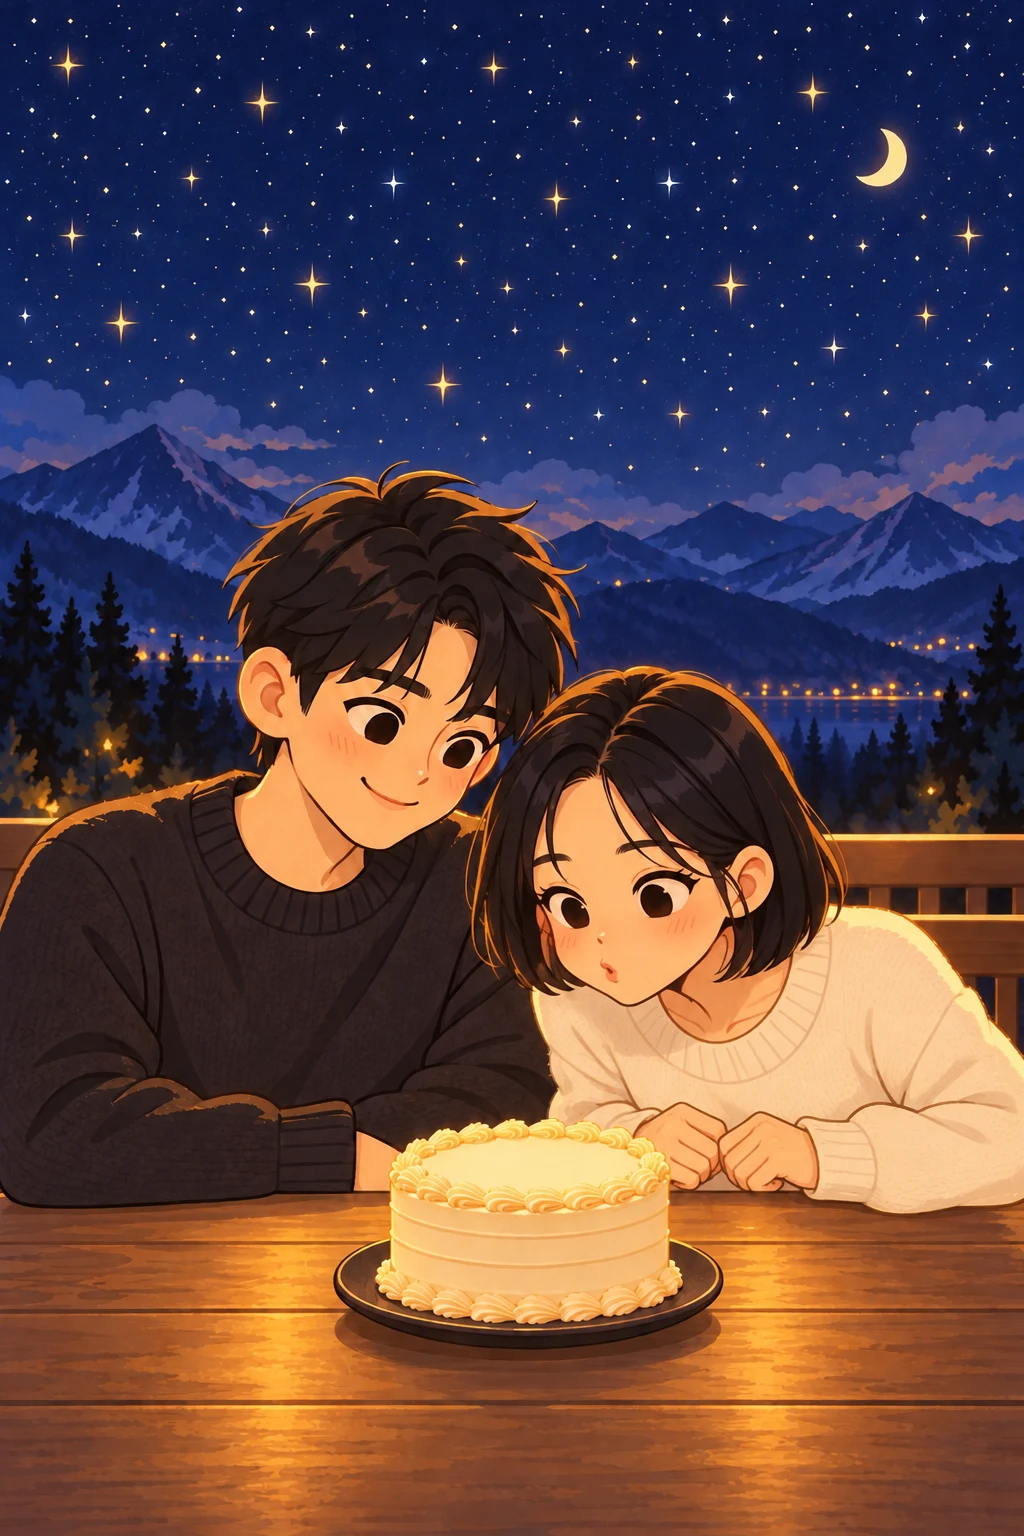
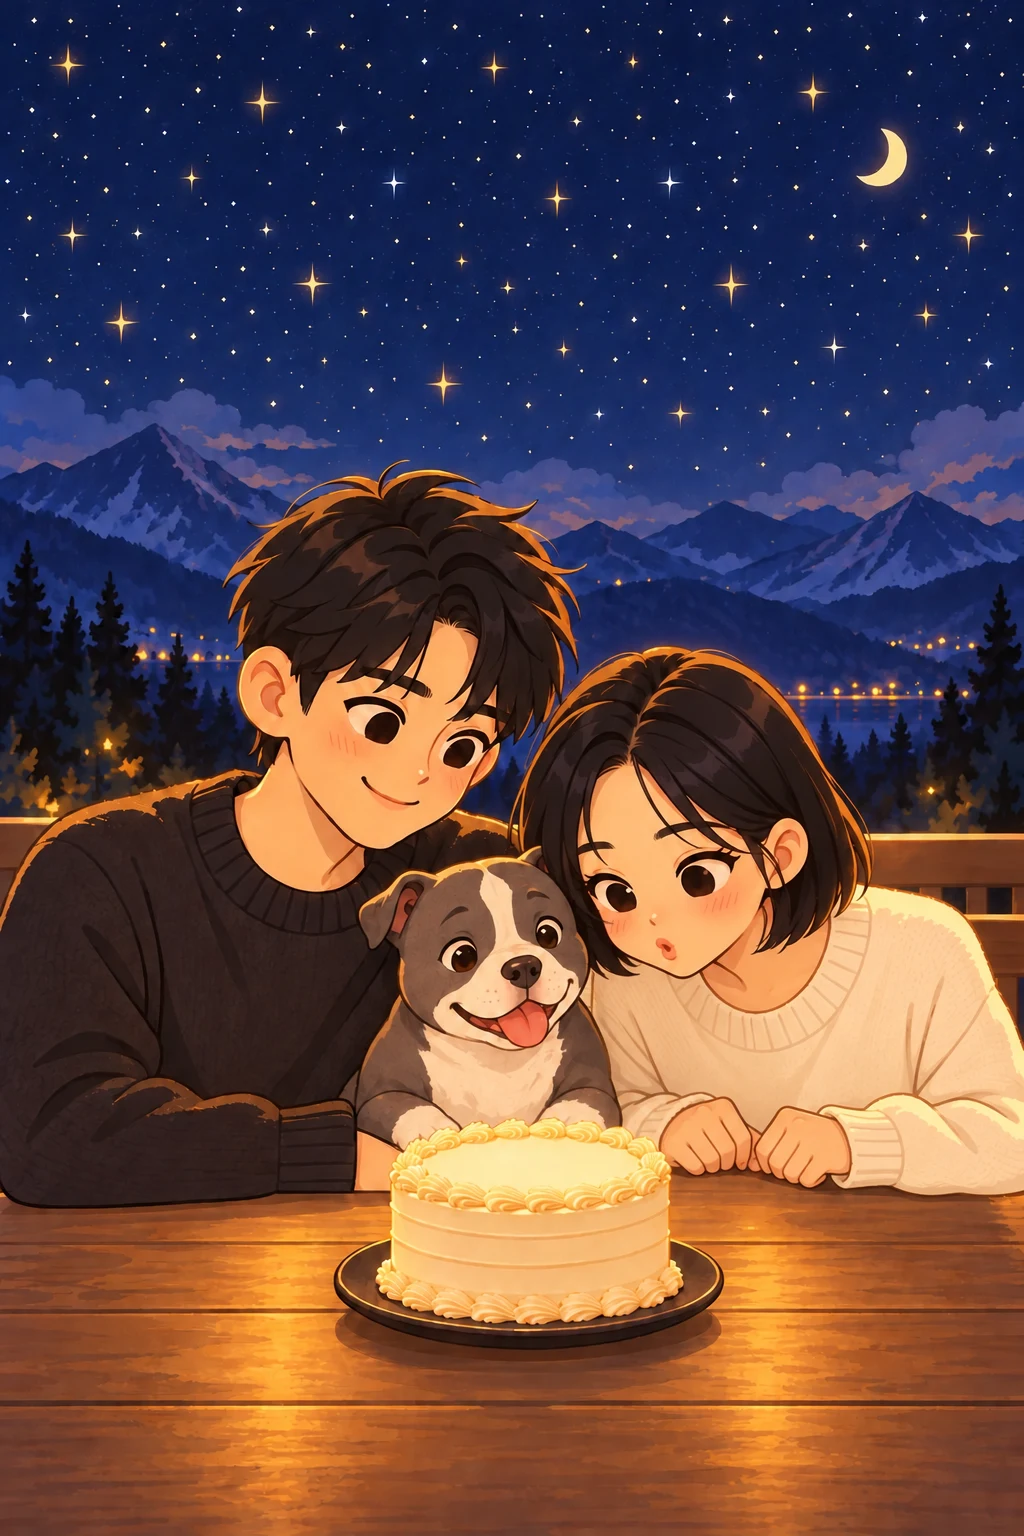
Form birthday greeting with fireworks and add pit bull companion

diff --git a/src/birthday.js b/src/birthday.js
@@ -48,6 +48,27 @@
       light.addColorStop(0,'#fffbe9');light.addColorStop(.14,color);light.addColorStop(1,color+'00');
       g.fillStyle=light;g.fillRect(0,0,32,32);return sprite;
     });
+    // Rasterize three Korean lines once, then let the second volley form their glyphs.
+    const lettering = document.createElement('canvas');
+    lettering.width = Math.ceil(w); lettering.height = Math.ceil(h);
+    const ink = lettering.getContext('2d', {willReadFrequently:true});
+    const fontSize = Math.min(w*.155, h*.09, 72), lineGap = fontSize*1.6;
+    ink.font = `700 ${fontSize}px "Apple SD Gothic Neo", "Noto Sans CJK KR", sans-serif`;
+    ink.textAlign = 'center'; ink.textBaseline = 'middle'; ink.fillStyle = '#fff';
+    const words = ['22번째', '생일', '축하해'];
+    const letterSparks = [];
+    for (let row=0; row<words.length; row++) {
+      ink.clearRect(0,0,w,h);
+      const cy=h*.46+(row-1)*lineGap;
+      ink.fillText(words[row],w/2,cy);
+      const pixels=ink.getImageData(0,0,lettering.width,lettering.height).data;
+      for(let y=Math.max(0,Math.floor(cy-fontSize));y<Math.min(h,cy+fontSize);y+=3){
+        for(let x=0;x<w;x+=3){
+          if(pixels[(y*lettering.width+x)*4+3]<100)continue;
+          letterSparks.push({x,y,row,cy,delay:Math.random()*.15,phase:Math.random()*6});
+        }
+      }
+    }
     const trail = [], started = performance.now();
     const smooth = x => { x=Math.max(0,Math.min(1,x)); return x*x*(3-2*x); };
     function render(now) {
@@ -56,17 +77,17 @@
       const zoom=1-.15*smooth((t-4.3)/1.1);
       ctx.clearRect(0,0,w,h);
       // Fade the camera shot into the illustrated couple after the firework bloom.
-      ctx.globalAlpha=1-smooth((t-8.6)/1.9);
+      ctx.globalAlpha=1-smooth((t-12.6)/1.9);
       ctx.save();
       const sky=ctx.createLinearGradient(0,0,w,h);
       sky.addColorStop(0,'#090f2e');sky.addColorStop(.55,'#20234b');sky.addColorStop(1,'#584069');
       ctx.fillStyle=sky;ctx.fillRect(0,0,w,h);
       const paintedSky=dialog.querySelector('.birthday-photo');
       if(paintedSky.complete&&paintedSky.naturalWidth){
-        ctx.globalAlpha=(1-smooth((t-8.6)/1.9))*.42;
+        ctx.globalAlpha=(1-smooth((t-12.6)/1.9))*.42;
         const skyHeight=h*1.3, skyWidth=skyHeight*1024/440;
         ctx.drawImage(paintedSky,0,0,1024,440,(w-skyWidth)/2,-h*.22-camera*.08,skyWidth,skyHeight);
-        ctx.globalAlpha=1-smooth((t-8.6)/1.9);
+        ctx.globalAlpha=1-smooth((t-12.6)/1.9);
       }
       ctx.translate(w/2,h*.35);ctx.scale(zoom,zoom);ctx.translate(-w/2,-h*.35);
       for(const star of stars){
@@ -119,7 +140,7 @@
             return {x:shell.x+Math.cos(p.angle)*radius,
               y:shell.y+Math.sin(p.angle)*radius+20*at*at};
           };
-          const head=point(age),alpha=(1-smooth((t-8.6)/1.9))*Math.min(1,age*8)*Math.max(0,1-age/p.life);
+          const head=point(age),alpha=(1-smooth((t-12.6)/1.9))*Math.min(1,age*8)*Math.max(0,1-age/p.life);
           ctx.strokeStyle=shell.color;
           for(let tail=3;tail>0;tail--){
             const from=point(Math.max(0,age-tail*.075)),to=point(Math.max(0,age-(tail-1)*.075));
@@ -130,8 +151,26 @@
           ctx.drawImage(glows[b],head.x-7,head.y-7,14,14);
         }
       }
+      // A staggered second volley bursts into the exact message, then drifts away.
+      for(const p of letterSparks){
+        const age=t-(7.9+p.row*.48+p.delay);
+        if(age<0)continue;
+        const spread=1-(1-Math.min(1,age/1.45))**3;
+        const dissolve=smooth((t-12.6)/1.9);
+        const x=w/2+(p.x-w/2)*spread+Math.sin(p.phase)*dissolve*18;
+        const y=p.cy+(p.y-p.cy)*spread+dissolve*dissolve*75;
+        const prev=Math.max(0,age-.065),before=1-(1-Math.min(1,prev/1.45))**3;
+        const colorIndex=[0,1,2][p.row];
+        ctx.globalAlpha=Math.min(1,age*5)*(1-dissolve)*(.78+.22*Math.sin(t*4+p.phase)**2);
+        if(age<1.5){
+          ctx.strokeStyle=palette[colorIndex];ctx.lineWidth=1;
+          ctx.beginPath();ctx.moveTo(w/2+(p.x-w/2)*before,p.cy+(p.y-p.cy)*before);ctx.lineTo(x,y);ctx.stroke();
+        }
+        ctx.drawImage(glows[colorIndex],x-3.2,y-3.2,6.4,6.4);
+        ctx.fillStyle=palette[colorIndex];ctx.fillRect(x-.65,y-.65,1.3,1.3);
+      }
       ctx.restore();ctx.globalAlpha=1;
-      if(t<10.5&&dialog.open&&!document.hidden)frame=requestAnimationFrame(render);
+      if(t<14.5&&dialog.open&&!document.hidden)frame=requestAnimationFrame(render);
       else stop();
     }
     frame=requestAnimationFrame(render);
@@ -197,14 +236,13 @@
       <div class="birthday-scroll"><section class="birthday-hero">
         <div class="birthday-stage">
           <div class="birthday-scene">
-            <img class="birthday-photo" src="birthday-night.webp?v=20261020-8" width="1024" height="1536" alt="별이 많은 밤하늘 아래 단발 여성과 남성이 작은 케이크를 바라보는 그림" decoding="async">
-            <img class="birthday-pose" src="birthday-blow.webp?v=20261020-8" width="1024" height="1536" alt="" aria-hidden="true" decoding="async">
-            <svg class="birthday-breath" viewBox="0 0 1024 1536" aria-hidden="true"><path d="M610 970 Q570 1020 530 1080"/><path d="M618 978 Q580 1030 538 1090"/><path d="M605 965 Q560 1010 523 1075"/></svg>
+            <img class="birthday-photo" src="birthday-night.webp?v=20261020-9" width="1024" height="1536" alt="별이 많은 밤하늘 아래 단발 여성과 남성이 핏불테리어와 작은 케이크를 바라보는 그림" decoding="async">
+            <img class="birthday-pose" src="birthday-blow.webp?v=20261020-9" width="1024" height="1536" alt="" aria-hidden="true" decoding="async">
+            <svg class="birthday-breath" viewBox="0 0 1024 1536" aria-hidden="true"><path d="M666 950 Q590 1010 530 1080"/><path d="M674 958 Q600 1020 538 1090"/><path d="M660 945 Q580 1000 523 1075"/></svg>
             <div class="birthday-candle-glow" aria-hidden="true"></div>
             <button class="birthday-candle-button" type="button" aria-label="촛불 켜기" aria-pressed="true">
               ${[...'2026'].map(n=>`<span class="birthday-number" aria-hidden="true"><span class="birthday-digit">${n}</span><span class="birthday-wick"></span><span class="birthday-flame"></span><span class="birthday-smoke"></span></span>`).join('')}
             </button>
-            <p class="birthday-caption">22번째 생일 축하해</p>
           </div>
           <button class="birthday-blow" type="button">촛불 켜기</button>
         </div>

diff --git a/src/birthday.css b/src/birthday.css
@@ -14,14 +14,12 @@
 .birthday-photo{display:block;width:100%;height:auto}
 .birthday-scene{container-type:inline-size}
 .birthday-candle-button{position:absolute;left:51.8%;top:76%;transform:translate(-50%,-100%);width:25%;height:10%;min-height:65px;display:flex;align-items:flex-end;justify-content:center;padding:0;border:0;background:transparent;cursor:pointer;z-index:3;-webkit-tap-highlight-color:transparent}
-.birthday-number{position:relative;display:block;width:25%;height:48%;color:#f9c0cc}
-.birthday-number:nth-child(2){color:#b8dbef}.birthday-number:nth-child(3){color:#ffe09c}.birthday-number:nth-child(4){color:#c6b3ed}
-.birthday-digit{display:block;font:bold 32px/1 Georgia,serif;font-size:clamp(24px,6cqi,42px);-webkit-text-stroke:1px #fff6df;text-shadow:1px 2px 0 #a35c6380,0 2px 3px #4f343580}
+.birthday-number{position:relative;display:block;width:25%;height:48%;color:#e83841}
+.birthday-digit{display:block;font:bold 32px/1 Georgia,serif;font-size:clamp(24px,6cqi,42px);-webkit-text-stroke:1px #ffb3a0;text-shadow:1px 2px 0 #a35c6380,0 2px 3px #4f343580}
 .birthday-wick{position:absolute;left:50%;bottom:100%;height:8%;width:1px;background:#44362a}
 .birthday-flame{position:absolute;left:calc(50% - 4px);bottom:106%;width:8px;height:40%;border-radius:60% 40% 45% 45%;background:linear-gradient(#ffa943,#fffbe0 60%,#ffc163);box-shadow:0 0 7px #ffdb9b,0 0 18px #ffa94d80;transform-origin:50% 100%;animation:birthday-flame 1.8s ease-in-out infinite alternate;transition:opacity .25s}
 .birthday-number:nth-child(even) .birthday-flame{animation-delay:-.6s}
 .birthday-smoke{position:absolute;left:calc(50% - 5px);bottom:105%;width:10px;height:85%;border-left:2px solid #d5d9e288;border-radius:50%;filter:blur(2px);opacity:0;pointer-events:none}
-.birthday-caption{position:absolute;top:82.5%;left:0;width:100%;margin:0;text-align:center;font-size:clamp(13px,3.3cqi,18px);font-weight:600;color:#63402c;text-shadow:0 1px 2px #fff0c9;letter-spacing:.5px}
 .birthday-candle-glow{position:absolute;left:51.8%;top:73%;width:32%;aspect-ratio:1;transform:translate(-50%,-50%);pointer-events:none;background:radial-gradient(ellipse,#ffce7617,transparent 68%);transition:opacity .6s}
 .candles-out .birthday-flame,.candles-out .birthday-candle-glow{opacity:0;animation:none}
 .candles-blown .birthday-smoke{animation:birthday-smoke 2.8s ease-out both}

diff --git a/src/index.html b/src/index.html
@@ -11,8 +11,8 @@
 <link rel="stylesheet" href="bridge-client.css?v=20260914-layout">
 <link rel="stylesheet" href="push-client.css?v=20260914-push1">
 <link rel="stylesheet" href="school-client.css?v=20260915-calendar1">
-<link rel="stylesheet" href="birthday.css?v=20261020-8">
-<script src="birthday.js?v=20261020-8" defer></script>
+<link rel="stylesheet" href="birthday.css?v=20261020-9">
+<script src="birthday.js?v=20261020-9" defer></script>
 <title>동영 스케줄</title>
 <style>
 :root{

diff --git a/src/birthday-assets.md b/src/birthday-assets.md
@@ -2,15 +2,19 @@
 
 The two WebP assets are original AI-generated cute cartoon illustrations made
 with OpenAI image generation on 2026-10-19 (Asia/Seoul). They depict fictional
-adults, a woman with a chin-length bob, a small cake, and a star-filled night
+adults, a woman with a chin-length bob, a friendly gray-and-white pit bull
+terrier between the couple, a small cake, and a star-filled night
 sky without a Milky Way. Each 1024 × 1536 source is encoded at WebP quality 88.
 
-The app overlays four interactive number candles (2026) and the requested
-caption “22번째 생일 축하해”. A single light/blow control is placed within the
+The app overlays four red interactive number candles (2026). The cake has no
+caption. A single light/blow control is placed within the
 scene. There is no separate letter/replay action bar. Lighting then blowing
 out the candles opens the original letter automatically.
 
-The 10.5-second skippable canvas opening follows a rocket before seven large
+The 14.5-second skippable canvas opening follows a rocket before seven large
 peony/willow firework shells spread across the viewport. Each shell has 130
-sparks with bounded trails and cached glow sprites. Reduced motion skips the
+sparks with bounded trails and cached glow sprites. A second volley forms
+“22번째 / 생일 / 축하해” in three lines of gold, pink and blue particles,
+holds briefly, then dissolves. Text is rasterized once using local Korean
+fonts. Reduced motion skips the
 opening and blowing animation. No microphone or external asset requests.
